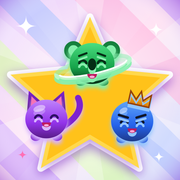
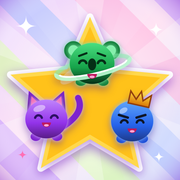
Ícone: corrige rostos duplicados dos pets (sombra só no contorno) + revisão de traduções
Claude-Session: https://claude.ai/code/session_01XGVFxJ3mBe4Ma5WA6JJQdv

Changed region(s): [[0.1111, 0.2222, 0.75, 0.8333], [0.5833, 0.5278, 0.8611, 0.8333]]

diff --git a/index.html b/index.html
@@ -11,9 +11,9 @@
 -->
 <html lang="pt-BR">
 <head>
-<link rel="icon" href="favicon.svg?v=4" type="image/svg+xml">
-<link rel="icon" href="favicon-32.png?v=4" sizes="32x32" type="image/png">
-<link rel="apple-touch-icon" href="apple-touch-icon.png?v=4">
+<link rel="icon" href="favicon.svg?v=5" type="image/svg+xml">
+<link rel="icon" href="favicon-32.png?v=5" sizes="32x32" type="image/png">
+<link rel="apple-touch-icon" href="apple-touch-icon.png?v=5">
 <meta charset="utf-8">
 <meta name="viewport" content="width=device-width, initial-scale=1, viewport-fit=cover">
 <meta name="description" content="TsuLiPa⭐World: corra até o Center no Center⭐Run!, cuide do seu pet no Backstage⭐Pet!, gire o Star⭐Gacha! e monte cenas com amigos no Moon⭐Duo! Um jogo do TsuLiPa (BRS48).">
@@ -23,14 +23,14 @@
 <meta property="og:title" content="TsuLiPa⭐World">
 <meta property="og:description" content="Corra até o Center, cuide do seu pet, gire o Star⭐Gacha! e monte cenas com amigos no Moon⭐Duo! Um jogo do TsuLiPa (BRS48).">
 <meta property="og:url" content="https://tsulipa-world.vercel.app/">
-<meta property="og:image" content="https://tsulipa-world.vercel.app/og.jpg?v=11">
+<meta property="og:image" content="https://tsulipa-world.vercel.app/og.jpg?v=12">
 <meta property="og:image:width" content="1200">
 <meta property="og:image:height" content="630">
 <meta property="og:locale" content="pt_BR">
 <meta name="twitter:card" content="summary_large_image">
 <meta name="twitter:title" content="TsuLiPa⭐World">
 <meta name="twitter:description" content="Corra até o Center, cuide do seu pet, gire o Star⭐Gacha! e monte cenas com amigos no Moon⭐Duo!">
-<meta name="twitter:image" content="https://tsulipa-world.vercel.app/og.jpg?v=11">
+<meta name="twitter:image" content="https://tsulipa-world.vercel.app/og.jpg?v=12">
 <link rel="manifest" href="manifest.json">
 <meta name="google-site-verification" content="J49ekjyq4BDr6eOcluPFBIOG14ahyJAs0NrObrKJqOs" />
 <title>TsuLiPa⭐World</title>
@@ -8299,8 +8299,8 @@ function hubMontar(){
 }
 function hubCfgUI(){   // idioma e tema do Oshi também na tela de início (os mesmos botões do menu do Center Run)
   var L = [['pt', 'PT'], ['es', 'ES'], ['en', 'EN'], ['th', 'TH'], ['ja', '日本語']], O = [['', '☀', 'Padrão'], ['tsu', '🎤', 'Tsu'], ['lirika', '🐨', 'Lirika'], ['pati', '👑', 'Pati']];
-  $('hubCfg').innerHTML = '<span role="group" aria-label="Idioma">' + L.map(function(l){ return '<button type="button" data-hl="' + l[0] + '" aria-pressed="' + (LANG === l[0]) + '">' + l[1] + '</button>'; }).join('') + '</span>' +
-    '<span role="group" aria-label="Tema do Oshi">' + O.map(function(o){ return '<button type="button" data-ho="' + o[0] + '" title="' + escHtml(tr(o[2])) + '" aria-pressed="' + (OSHI === o[0]) + '">' + o[1] + '</button>'; }).join('') + '</span>';
+  $('hubCfg').innerHTML = '<span role="group" aria-label="' + escHtml(tr('Idioma')) + '">' + L.map(function(l){ return '<button type="button" data-hl="' + l[0] + '" aria-pressed="' + (LANG === l[0]) + '">' + l[1] + '</button>'; }).join('') + '</span>' +
+    '<span role="group" aria-label="' + escHtml(tr('Tema do Oshi')) + '">' + O.map(function(o){ return '<button type="button" data-ho="' + o[0] + '" title="' + escHtml(tr(o[2])) + '" aria-pressed="' + (OSHI === o[0]) + '">' + o[1] + '</button>'; }).join('') + '</span>';
 }
 function hubAvisoCarregar(){   // aviso da moderação no topo das Novidades
   contaRpc('aviso_inicio').then(function(t){
@@ -9337,7 +9337,7 @@ function duoMsgTxt(m){   // presentes do Moon⭐Duo! chegam como "duo:🧸:Nick"
  ['{nick} te mandou um presente pelo Moon⭐Duo!', '{nick} sent you a gift through Moon⭐Duo!', '¡{nick} te envió un regalo por Moon⭐Duo!', '{nick} ส่งของขวัญให้คุณผ่าน Moon⭐Duo!', '{nick}がMoon⭐Duo!でプレゼントをくれたよ！'],
  ['Faça um Moon⭐Duo!', 'Make a Moon⭐Duo!', '¡Haz un Moon⭐Duo!', 'ทำ Moon⭐Duo!', 'Moon⭐Duo!をつくろう'], ['Fez 5 cenas no Moon⭐Duo!', 'Made 5 Moon⭐Duo! scenes', 'Hizo 5 escenas en Moon⭐Duo!', 'สร้างฉาก Moon⭐Duo! 5 ฉาก', 'Moon⭐Duo!のシーンを5回つくった'], ['cenas', 'scenes', 'escenas', 'ฉาก', 'シーン'],
  ['Aparecer no Moon⭐Duo! de outras pessoas', "Appear in other people's Moon⭐Duo!", 'Aparecer en el Moon⭐Duo! de otras personas', 'ให้คนอื่นเลือกฉันใน Moon⭐Duo!', 'ほかの人のMoon⭐Duo!に出る'],
- ['Duas amizades, mil cenas! Monte poses, danças e lanchinhos com outro Idol.', 'Two friends, a thousand scenes! Make poses, dances and snacks with another Idol.', '¡Dos amistades, mil escenas! Poses, bailes y meriendas con otro Idol.', 'เพื่อนสองคน พันฉาก! โพส เต้น และกินขนมกับไอดอลคนอื่น', 'ふたりで無限のシーン！ほかのアイドルとポーズやダンスやおやつ'],
+ ['Duas amizades, mil cenas! Monte poses, danças e lanchinhos com outro Idol.', 'Two friends, a thousand scenes! Strike poses, dance and share snacks with another Idol.', '¡Dos amistades, mil escenas! Poses, bailes y meriendas con otro Idol.', 'เพื่อนสองคน พันฉาก! โพส เต้น และกินขนมกับไอดอลคนอื่น', 'ふたりで無限のシーン！ほかのアイドルとポーズ・ダンス・おやつを楽しもう'],
  ['Você brilha muito no palco! ✨', 'You really shine on stage! ✨', '¡Brillas mucho en el escenario! ✨', 'คุณเปล่งประกายบนเวทีมาก! ✨', 'ステージでキラキラだね！✨'],
  ['Força! Eu acredito em você 💪', 'You got this! I believe in you 💪', '¡Ánimo! Creo en ti 💪', 'สู้ๆ! ฉันเชื่อในตัวคุณ 💪', 'ファイト！信じてるよ💪'],
  ['Obrigado por ser meu duo! 🌙', 'Thanks for being my duo! 🌙', '¡Gracias por ser mi dúo! 🌙', 'ขอบคุณที่เป็นคู่ของฉัน! 🌙', 'ペアになってくれてありがとう！🌙'],

diff --git a/privacidade.html b/privacidade.html
@@ -2,7 +2,7 @@
 <html lang="pt-BR"><head><meta charset="utf-8"><meta name="viewport" content="width=device-width,initial-scale=1">
 <title>Privacidade e Segurança · TsuLiPa⭐World</title>
 <meta name="description" content="Como o TsuLiPa⭐World cuida da sua conta, dos seus dados e da sua segurança.">
-<link rel="icon" href="favicon.svg?v=4">
+<link rel="icon" href="favicon.svg?v=5">
 <style>
 :root{--bg1:#fff0f8;--bg2:#efe4ff;--card:#fff;--ink:#2c1a5e;--sub:#6b5a8e;--b1:#7b3ff0;--pink:#ff6fb5;--blue:#4169e1;--chip:#f6f0ff}
 @media (prefers-color-scheme:dark){:root{--bg1:#140c2a;--bg2:#1b1440;--card:#21184a;--ink:#f1eaff;--sub:#b9a8e0;--b1:#b48cff;--chip:#2a2058}}
